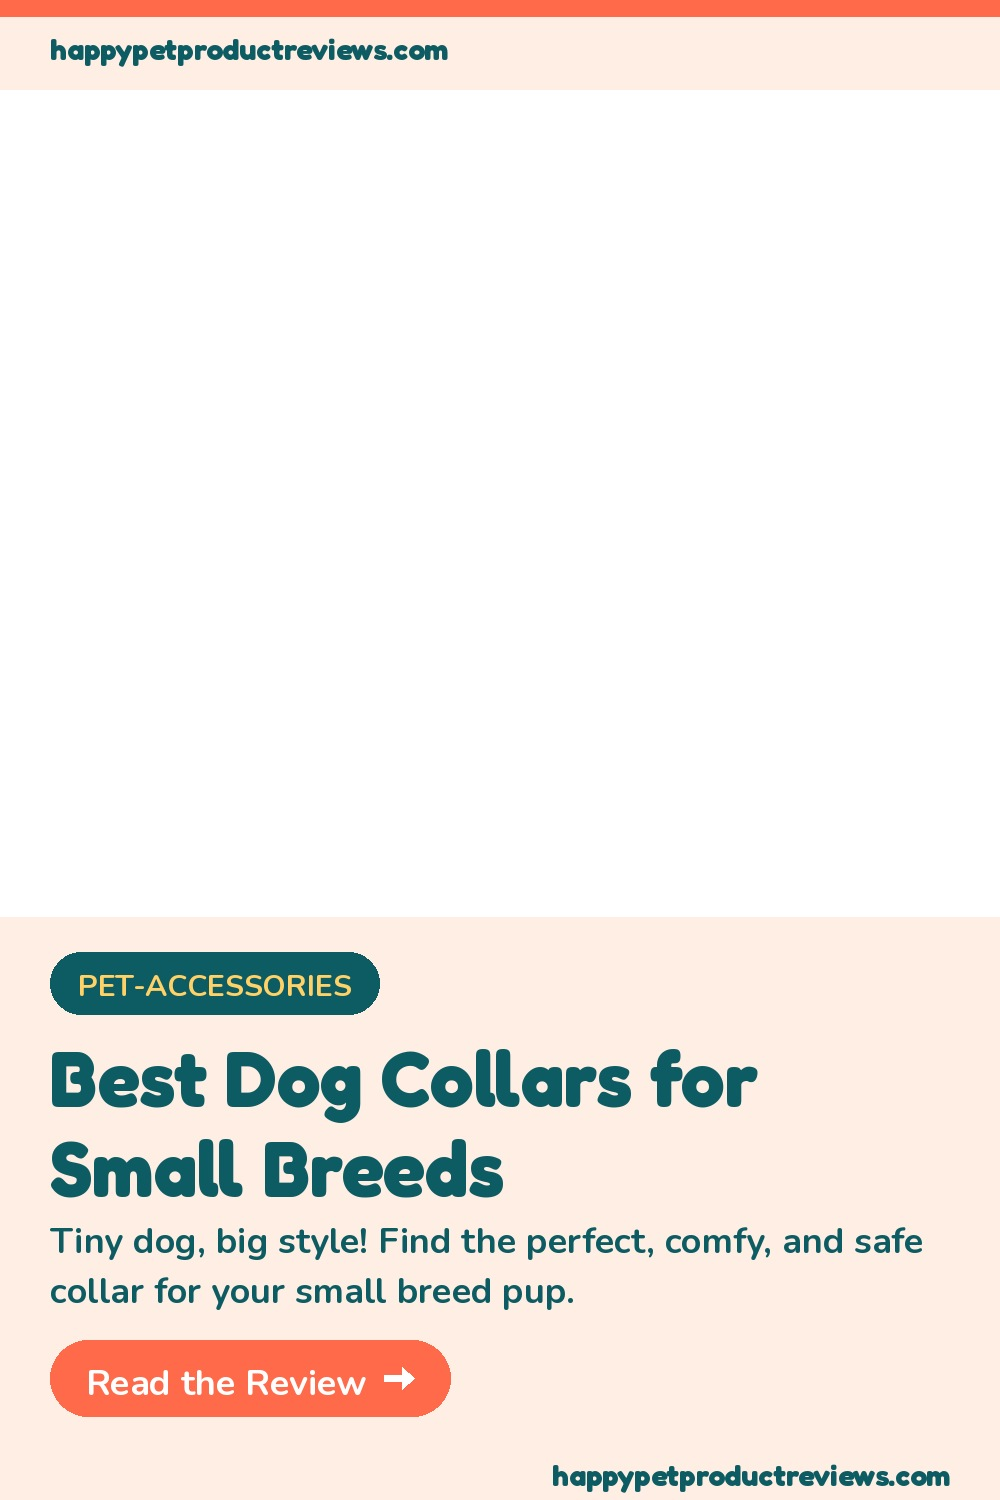
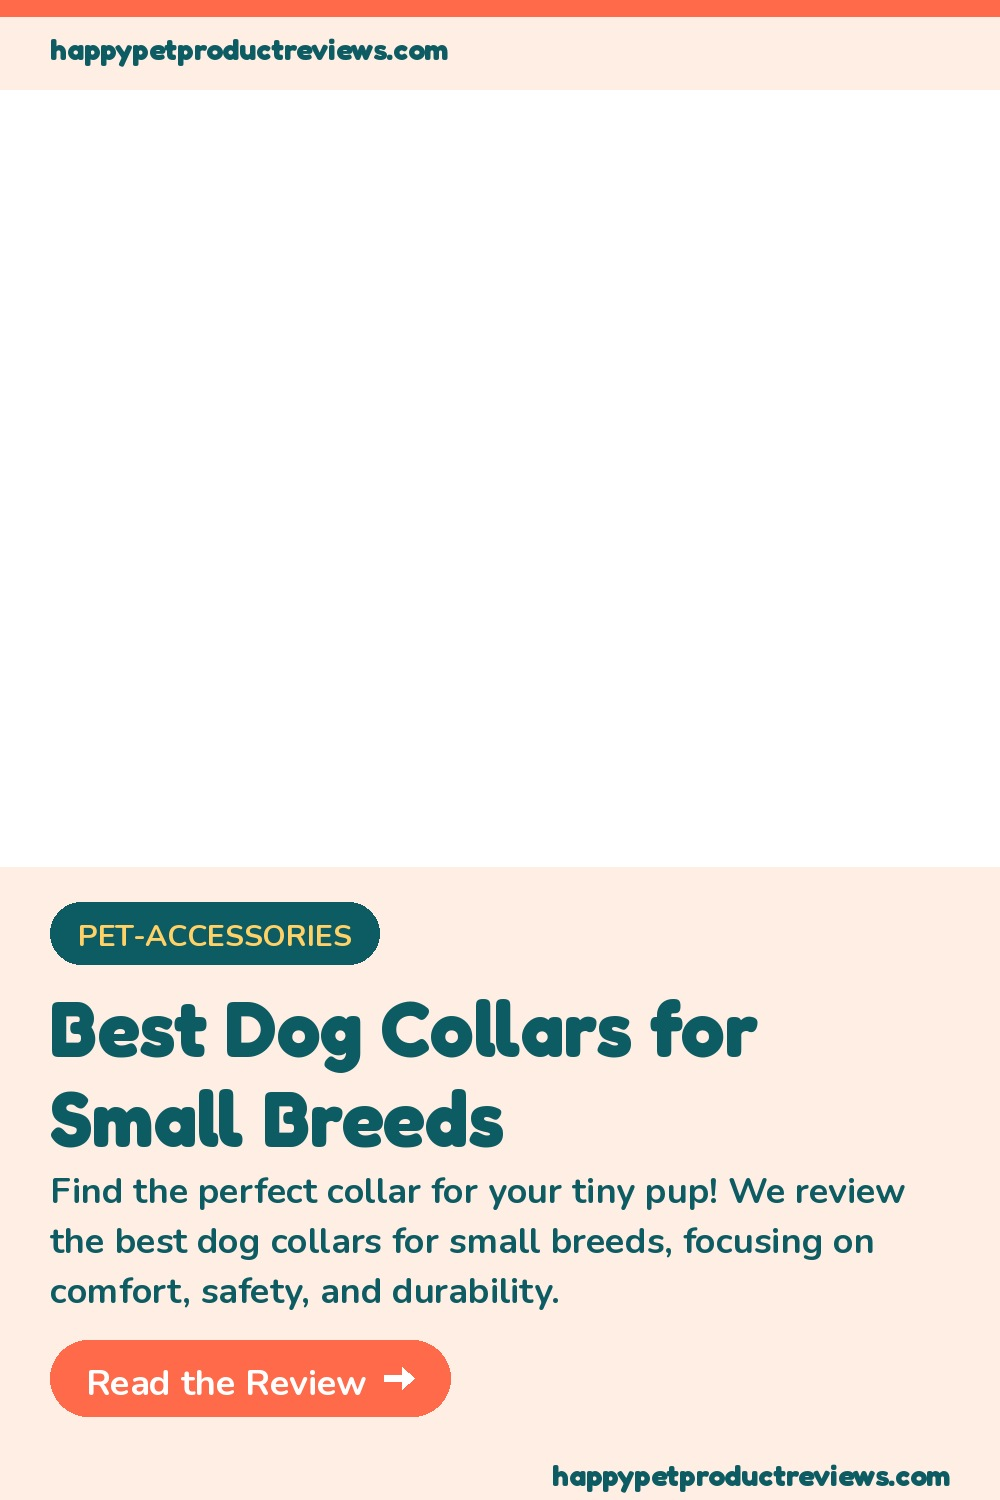
auto: add 1 articles 2026-04-06

Changed region(s): [[0.0, 0.552, 1.0, 0.8893]]

diff --git a/_posts/2026-04-06-best-dog-collars-small-breeds.md b/_posts/2026-04-06-best-dog-collars-small-breeds.md
@@ -5,138 +5,90 @@ date: 2026-04-06
 categories: [pet-accessories]
 species: dog
 tags: [dog collars small breeds]
-description: "Tiny dog, big style! Find the perfect, comfy, and safe collar for your small breed pup."
+description: "Find the perfect collar for your tiny pup! We review the best dog collars for small breeds, focusing on comfort, safety, and durability."
 affiliate_url: "https://amzn.to/4cpySWA"
 ---
 
 
 # Best Dog Collars for Small Breeds
 
-As devoted pet parents, we know that our tiny companions aren't just miniature versions of larger dogs. They have unique needs, especially when it comes to something as fundamental as a collar. A collar that's too wide can overwhelm a delicate neck, one that's too heavy can cause discomfort, and a poorly fitting one can be a safety hazard, leading to chafing, choking, or even slipping off. Finding the perfect balance of comfort, safety, durability, and style for your pint-sized pal can feel like a big task.
+Bringing a small dog into your life is an absolute joy. Whether you've got a zippy Chihuahua, a fluffy Pomeranian, or a charming Dachshund, these pint-sized pals fill our homes with endless love and laughter. But let's be honest, finding the right gear for them can sometimes feel like a quest! We know the struggle: collars that are too bulky, too heavy, or just don't fit snugly enough, leaving our little escape artists vulnerable. A poorly fitting collar isn't just uncomfortable; it can be downright dangerous, leading to choking hazards or, worse, giving them a chance to slip free.
 
-Whether you share your home with a spirited Chihuahua, a dashing Dachshund, a playful Pug, or an elegant Yorkshire Terrier, their small stature demands a collar designed with them in mind. We understand the struggle of sifting through countless options, wondering which will truly be the best fit for your beloved furball. That's why we've put our paws to the pavement, testing and evaluating a range of dog collars specifically tailored for smaller breeds. Our goal? To help you choose a collar that’s not only secure and comfortable but also reflects your dog’s unique personality. We've focused on crucial factors like lightweight materials, gentle hardware, and secure fits to ensure your little one stays safe and happy.
+That's why we at Happy Pet Product Reviews are dedicated to sniffing out the best products that truly cater to the unique needs of our smaller companions. We’ve spent countless hours researching, testing, and comparing to bring you our top picks for **dog collars small breeds**. We understand that for tiny necks, comfort, safety, and a perfect fit are paramount. You want something that provides security without sacrificing an ounce of your dog's precious comfort. So, if you're tired of ill-fitting collars and ready to find a secure, stylish, and safe option for your little one, you've come to the right place. We've got the scoop on collars that will make both you and your small dog happy.
 
-## Quick Picks
+## Our Quick Picks
 
-If you're eager to get right to our top recommendations for dog collars for small breeds, here are our quick picks! For an excellent all-around choice that combines durability, a secure fit, and fantastic style options at a great price, we highly recommend the [Blueberry Pet Essentials Florence Adjustable Nylon Dog Collar](https://amzn.to/4cpySWA). For pups who need extra cushioning, the Kong Comfort Padded Collar offers superior comfort. If safety is your absolute top priority, especially for home use, the PetSafe KeepSafe Break-Away Collar provides invaluable peace of mind. And for a reliable, no-frills option that won't break the bank, the Frisco Solid Nylon Collar is a solid choice.
+When it comes to **dog collars small breeds**, we’ve narrowed down our top choices that excel in comfort, safety, and durability. For an all-around fantastic and vibrant option, we absolutely love the [Blueberry Pet Essentials Florence Adjustable Nylon Dog Collar](https://amzn.to/4cpySWA). If you’re looking for a reliable, no-frills everyday collar that offers great value, the Frisco Solid Nylon Collar is a solid choice. And for those pups who might get into sticky situations, the PetSafe KeepSafe Break-Away Collar offers an important layer of safety. Each of these collars brings something special to the table, ensuring your small dog is both secure and comfortable.
 
-### Featured Pick -- [Blueberry Pet Essentials Florence Adjustable Nylon Dog Collar](https://amzn.to/4cpySWA)
+### Featured Pick: [Blueberry Pet Essentials Florence Adjustable Nylon Dog Collar](https://amzn.to/4cpySWA)
 
-The [Blueberry Pet Essentials Florence Adjustable Nylon Dog Collar](https://amzn.to/4cpySWA) truly stands out as our top pick for small breeds, offering an impressive blend of quality, style, and value. Crafted from durable yet soft nylon webbing, this collar is comfortable against your dog's fur and robust enough for daily wear. We were particularly impressed by the wide array of vibrant colors and patterns available, making it easy to find a collar that perfectly matches your pet's personality. The sturdy metal D-ring for leash attachment and the secure buckle closure instill confidence, ensuring your small dog stays safely collared. It's lightweight enough not to bother even the most delicate necks but strong enough to hold up to an active lifestyle. For dog collars small breeds owners want, this is a fantastic choice that ticks all the boxes.
-
-**Pros:**
-*   Durable, high-density nylon webbing
-*   Extensive range of colors and patterns
-*   Lightweight and comfortable for small necks
-*   Sturdy metal D-ring and secure plastic buckle
-*   Excellent value for the quality
-
-**Cons:**
-*   Standard plastic buckle, not metal
-*   Not reflective for nighttime visibility
-
-### Kong Comfort Padded Collar
-
-Kong is a name synonymous with durability and quality in the pet world, and their Comfort Padded Collar lives up to that reputation. We found this collar to be exceptionally comfortable, thanks to its soft neoprene padding on the inside. This padding not only prevents chafing but also provides a gentle feel for dogs with sensitive skin or thin fur. The heavy-duty hardware, including a robust plastic buckle and a strong metal D-ring, ensures a secure fit, even for the most enthusiastic little explorers. It's a fantastic option for small dogs who appreciate a bit of extra cushioning without sacrificing strength.
+The [Blueberry Pet Essentials Florence Adjustable Nylon Dog Collar](https://amzn.to/4cpySWA) quickly became a favorite among our testers for its vibrant colors, soft yet durable nylon webbing, and excellent craftsmanship. We were particularly impressed with the secure, quick-release buckle, which feels sturdy without being overly bulky for a small dog's neck. The D-ring is robust, perfect for attaching tags and leashes, and the adjustability ensures a snug, comfortable fit for a variety of small breeds. This collar isn't just practical; it adds a pop of personality to your pup, making it our top recommendation for anyone seeking a blend of style, safety, and affordability in **dog collars small breeds**. It truly offers fantastic value for the quality you receive.
 
 **Pros:**
-*   Plush neoprene padding for superior comfort
-*   Heavy-duty, reliable buckle and D-ring
-*   Durable nylon webbing construction
-*   Available in sizes suitable for various small breeds
+*   Vibrant color options and stylish design
+*   Soft, high-density nylon webbing for comfort
+*   Sturdy, easy-to-use quick-release buckle
+*   Durable metal D-ring for leash and tags
+*   Excellent value for its quality and features
 
 **Cons:**
-*   Can be a bit bulky for *extra* small breeds like Teacup Yorkies
-*   Limited color options compared to some brands
-
-### PetSafe KeepSafe Break-Away Collar
-
-Safety is paramount, and the PetSafe KeepSafe Break-Away Collar truly shines in this regard. Designed with a unique break-away buckle, this collar will unlatch if it snags on something, preventing accidental strangulation – a crucial feature for dogs left unsupervised, in multi-pet households, or when crated. We appreciate the peace of mind this provides, especially for active small dogs who might get into tight spots. While it’s not designed for leash walking (you’ll need a standard collar or harness for that), it’s perfect for holding ID tags and ensuring your dog’s safety around the home.
-
-**Pros:**
-*   Life-saving break-away safety buckle
-*   Lightweight and comfortable nylon material
-*   Ideal for holding ID tags and home use
-*   Available in various small dog sizes
-
-**Cons:**
-*   Not suitable for use with a leash
-*   Fewer style options than typical collars
+*   Nylon can absorb odors over time if not regularly cleaned
+*   May not be the best choice for extreme chewers
 
 ### Frisco Solid Nylon Collar
 
-Sometimes, you just need a reliable, no-fuss option that gets the job done without emptying your wallet. The Frisco Solid Nylon Collar fits this bill perfectly. We found this collar to be a fantastic budget-friendly choice for everyday wear. It’s made from sturdy nylon webbing, comes in a great range of vibrant colors, and offers a simple, adjustable design that's easy to fit. While it doesn’t boast fancy features like padding or reflective stitching, its straightforward functionality and excellent value make it a go-to for many pet parents. It’s a dependable workhorse among dog collars small breeds can wear comfortably.
+The Frisco Solid Nylon Collar is a quintessential everyday collar that delivers on reliability and affordability. We appreciate its straightforward design and the wide range of sizes and colors available, making it easy to find a perfect match for any small dog. Made from durable nylon, it’s built to withstand daily wear and tear, and the classic buckle closure provides a secure fit. For pet parents seeking a dependable, no-fuss option that gets the job done without breaking the bank, this collar is an excellent choice. It's a workhorse of a collar, ideal for walks, playtime, and simply wearing around the house with ID tags attached.
 
 **Pros:**
-*   Extremely affordable and great value
-*   Simple, functional, and easy to adjust
-*   Wide variety of appealing colors
-*   Durable nylon suitable for daily use
+*   Very affordable and accessible
+*   Durable nylon construction
+*   Wide range of sizes and colors
+*   Simple, secure buckle design
+*   Easy to clean and maintain
 
 **Cons:**
-*   Basic plastic hardware, not as robust as metal options
-*   Lacks special features like padding or reflectivity
+*   Basic design may lack extra features
+*   Nylon can sometimes feel a bit stiff initially
 
-### RC Pet Products Cirque Reflective Collar
+### PetSafe KeepSafe Break-Away Collar
 
-For those evening strolls or early morning adventures, visibility is key, and the RC Pet Products Cirque Reflective Collar delivers. We were impressed by the effective reflective stitching woven into the durable nylon webbing, which significantly enhances your small dog's visibility in low-light conditions. Beyond safety, this collar is designed with comfort in mind, featuring soft, lightweight material that won't irritate delicate fur or skin. The plastic side-release buckle is easy to use, and the metal D-ring is sturdy for leash attachment. It’s a smart choice for any small dog owner prioritizing safety during walks.
+Safety is paramount, and the PetSafe KeepSafe Break-Away Collar takes that to heart, especially for small dogs who might find themselves in tricky situations. What sets this collar apart is its unique break-away buckle, designed to release if the collar gets snagged on something – say, a fence, a crate, or even another pet during rough play. This feature provides invaluable peace of mind, preventing potential choking hazards. It's constructed from lightweight nylon and still includes a D-ring for leash attachment during walks. For dogs who spend a lot of time unsupervised or playing with other pets, this collar adds a crucial layer of protection.
 
 **Pros:**
-*   Excellent reflective stitching for nighttime visibility
-*   Soft and lightweight webbing for comfort
-*   Durable and weather-resistant construction
-*   Secure metal D-ring for leash attachment
+*   Break-away buckle enhances safety by preventing entanglement
+*   Lightweight and comfortable for small necks
+*   Durable nylon construction for everyday use
+*   Adjustable for a precise fit
+*   Offers peace of mind for pet owners
 
 **Cons:**
-*   Slightly higher price point than basic nylon collars
-*   Limited range of color and pattern choices
+*   Break-away feature means it's not suitable for leash training or tying out
+*   Limited color options compared to other brands
 
 ## Comparison Table
 
-| Product                                                               | Best For                                    | Price Range | Our Rating |
-| :-------------------------------------------------------------------- | :------------------------------------------ | :---------- | :--------- |
-| [Blueberry Pet Essentials Florence Adjustable Nylon Dog Collar](https://amzn.to/4cpySWA) | All-around value, style, and durability     | $$          | ⭐⭐⭐⭐⭐   |
-| Kong Comfort Padded Collar                                            | Maximum comfort and durability              | $$          | ⭐⭐⭐⭐     |
-| PetSafe KeepSafe Break-Away Collar                                    | Home safety and ID tags (not leash walking) | $$          | ⭐⭐⭐⭐     |
-| Frisco Solid Nylon Collar                                             | Budget-friendly, everyday use               | $           | ⭐⭐⭐       |
-| RC Pet Products Cirque Reflective Collar                              | Nighttime visibility and safety             | $$          | ⭐⭐⭐⭐     |
+| Product                                                               | Best For                                 | Price Range | Our Rating |
+| :-------------------------------------------------------------------- | :--------------------------------------- | :---------- | :--------- |
+| [Blueberry Pet Essentials Florence Adjustable Nylon Dog Collar](https://amzn.to/4cpySWA) | Everyday wear, style, and value          | $$          | 4.8/5      |
+| Frisco Solid Nylon Collar                                             | Budget-friendly, reliable daily use      | $           | 4.5/5      |
+| PetSafe KeepSafe Break-Away Collar                                    | Safety-conscious owners, multi-pet homes | $$          | 4.6/5      |
 
 ## Buying Guide: Choosing the Right Collar for Your Small Dog
 
-Selecting the perfect collar for your small breed dog isn't just about aesthetics; it's about ensuring their comfort, safety, and well-being. With so many dog collars small breeds can wear, it’s important to consider a few key factors before making your final decision. Here’s what we recommend keeping in mind:
+Selecting the perfect collar for your small dog involves more than just picking a pretty color. Their delicate necks and smaller stature mean specific features are crucial for their comfort and safety. Here's what we recommend you consider when shopping for **dog collars small breeds**:
 
-### 1. Size and Fit are Paramount
+1.  **Size and Fit are Non-Negotiable:** This is the most critical factor. A collar for a small dog needs to fit snugly but comfortably. You should be able to slip two fingers underneath the collar, but no more. If it’s too loose, your dog could easily slip out, especially if they get spooked. If it’s too tight, it can cause discomfort, skin irritation, or even restrict breathing. Always measure your dog's neck circumference carefully and check the manufacturer's sizing chart. Don't guess! Many small breeds have surprisingly strong necks for their size, but they are still more delicate than larger dogs.
 
-This is perhaps the most critical aspect for small dogs. A collar that's too loose can easily slip over their head, leading to a lost pet, while one that's too tight can cause discomfort, choking, or skin irritation. Always measure your dog’s neck using a soft measuring tape. For the ideal fit, you should be able to comfortably slip two fingers between the collar and your dog’s neck. Don't eyeball it! Small breeds often have more delicate necks, so a precise fit is non-negotiable. Look for collars with a good range of adjustability to fine-tune the fit as your puppy grows or if their weight fluctuates.
+2.  **Material Matters for Comfort and Durability:** Small dogs often have finer fur or more sensitive skin, so the collar's material makes a big difference. Soft nylon, like that used in the [Blueberry Pet Essentials Florence Adjustable Nylon Dog Collar](https://amzn.to/4cpySWA), is a popular choice for its lightweight nature, durability, and ease of cleaning. Padded collars can offer extra comfort for dogs prone to chafing. Avoid anything too stiff or heavy, as it can weigh down their small necks and cause discomfort. Leather collars can be great but ensure they are soft and supple, not rigid.
 
-### 2. Material Matters for Comfort and Durability
+3.  **Safety Features to Prioritize:** For small dogs, safety features go beyond just the D-ring. A sturdy, reliable buckle is essential. Quick-release buckles are convenient, but make sure they don't unclip too easily. As we saw with the PetSafe KeepSafe, break-away collars are an excellent option for dogs who might get snagged during playtime or while exploring. Always ensure the D-ring for leash attachment is robust and sewn securely into the collar, especially if your small dog is a strong puller.
 
-The material of the collar directly impacts comfort and longevity.
-*   **Nylon:** A popular choice for dog collars small breeds wear, nylon is durable, easy to clean, weather-resistant, and comes in a vast array of colors and patterns. It’s generally soft enough not to irritate skin.
-*   **Neoprene-Padded:** For dogs with sensitive skin, short fur, or those prone to chafing, collars with neoprene or fleece padding offer an extra layer of comfort.
-*   **Leather:** While stylish and durable, leather collars for small breeds need to be soft and supple, not stiff. They can be more expensive and require some breaking in.
-*   **Reflective Materials:** If you walk your small dog in low-light conditions, look for collars with reflective stitching or materials to enhance visibility and safety.
+4.  **Purpose and Training Needs:** Think about what you primarily need the collar for. Is it solely for ID tags, or will you be attaching a leash for walks? For general identification and light walks, a standard flat collar like the Frisco Solid Nylon Collar works perfectly. However, if your small dog tends to pull on the leash, even a little bit, a collar might not be the best primary walking tool. In such cases, we often recommend exploring options like [no-pull harnesses for small dogs](/pawpicks/pet-accessories/best-no-pull-dog-harness/) to prevent strain on their delicate necks and ensure a more comfortable and controlled walk. Collars are fantastic for holding ID tags, but for active walks, a harness often offers superior comfort and safety for smaller breeds.
 
-### 3. Consider Hardware and Closure Types
+5.  **Weight and Bulk:** A collar that feels lightweight on a large dog can be a heavy burden on a tiny Chihuahua or Yorkie. Pay attention to the overall weight and bulk of the collar, including the buckle and D-ring. A slim, lightweight design is always preferable for small breeds to avoid unnecessary strain or discomfort.
 
-The buckle and D-ring are critical components. For small dogs, lightweight yet sturdy hardware is essential.
-*   **Buckles:** Plastic side-release buckles are common, lightweight, and generally secure. Metal buckles offer a more robust feel but can add a little more weight. Ensure the buckle is easy to open and close but won’t accidentally unlatch.
-*   **D-rings:** Always opt for a metal D-ring for leash attachment. It should be securely sewn or riveted to the collar, as this is where the most stress will be placed during walks. Make sure it's appropriately sized – not too bulky for a small dog, but strong enough.
+## Our Final Thoughts
 
-### 4. Special Features for Enhanced Safety and Convenience
+Choosing the right collar for your small dog is a crucial decision for their safety, comfort, and even their style. We hope our deep dive into the best **dog collars small breeds** helps you make an informed choice that brings both you and your furry friend peace of mind. Remember, a well-fitting collar isn't just an accessory; it's a vital piece of safety equipment. Always prioritize fit, material, and appropriate safety features for your individual dog's needs and lifestyle.
 
-Some collars offer additional features that can be incredibly beneficial.
-*   **Break-Away Collars:** As discussed with the PetSafe KeepSafe, these collars have a buckle designed to release under pressure, preventing strangulation if your dog gets snagged. They are excellent for ID tags and home safety but *not* for leash attachment.
-*   **Reflective Stitching:** Crucial for visibility during dawn, dusk, or nighttime walks, increasing your small dog's safety around traffic.
-*   **ID Tag Silencers:** Some collars integrate a way to quiet jingling tags, which can be a small but appreciated comfort for you and your dog.
-*   **No-Pull Options:** While collars are great for ID and light walks, if your small dog tends to pull, we always recommend considering [no-pull harnesses for small dogs](/pawpicks/pet-accessories/best-no-pull-dog-harness/) for better control and comfort during walks.
-
-### 5. Comfort and Style
-
-While safety and fit come first, there’s no reason you can’t have a collar that looks great too! Choose colors and patterns that suit your dog's personality or complement their fur. Many brands offer collars with rounded edges or soft linings to prevent irritation, which is particularly important for breeds with delicate skin or long fur that can get matted by rough edges.
-
-## Happy Trails (and Happy Collars!)
-
-Choosing the right collar for your small dog is a small decision with a big impact on their daily comfort and safety. We know how much you adore your pint-sized companion, and providing them with a collar that fits perfectly and performs reliably is an act of love. Remember to prioritize fit, material, and safety features above all else, but don't shy away from finding a style that truly reflects your dog's adorable personality.
-
-After extensive testing, we confidently recommend the [Blueberry Pet Essentials Florence Adjustable Nylon Dog Collar](https://amzn.to/4cpySWA) as an outstanding choice that offers an unbeatable combination of durability, comfort, style, and value. It’s a fantastic all-rounder for most small breeds, ensuring they look great and stay safe. Whichever collar you choose, ensure it brings happiness and security to your cherished small dog. Happy walking!
+After all our research and testing, we confidently stand by our top recommendation: the [Blueberry Pet Essentials Florence Adjustable Nylon Dog Collar](https://amzn.to/4cpySWA). It truly hits the sweet spot for quality, comfort, durability, and style, all at an accessible price point. Your small dog deserves nothing but the best, and with the right collar, they'll be ready for every adventure by your side, safely and comfortably. Happy walks!
